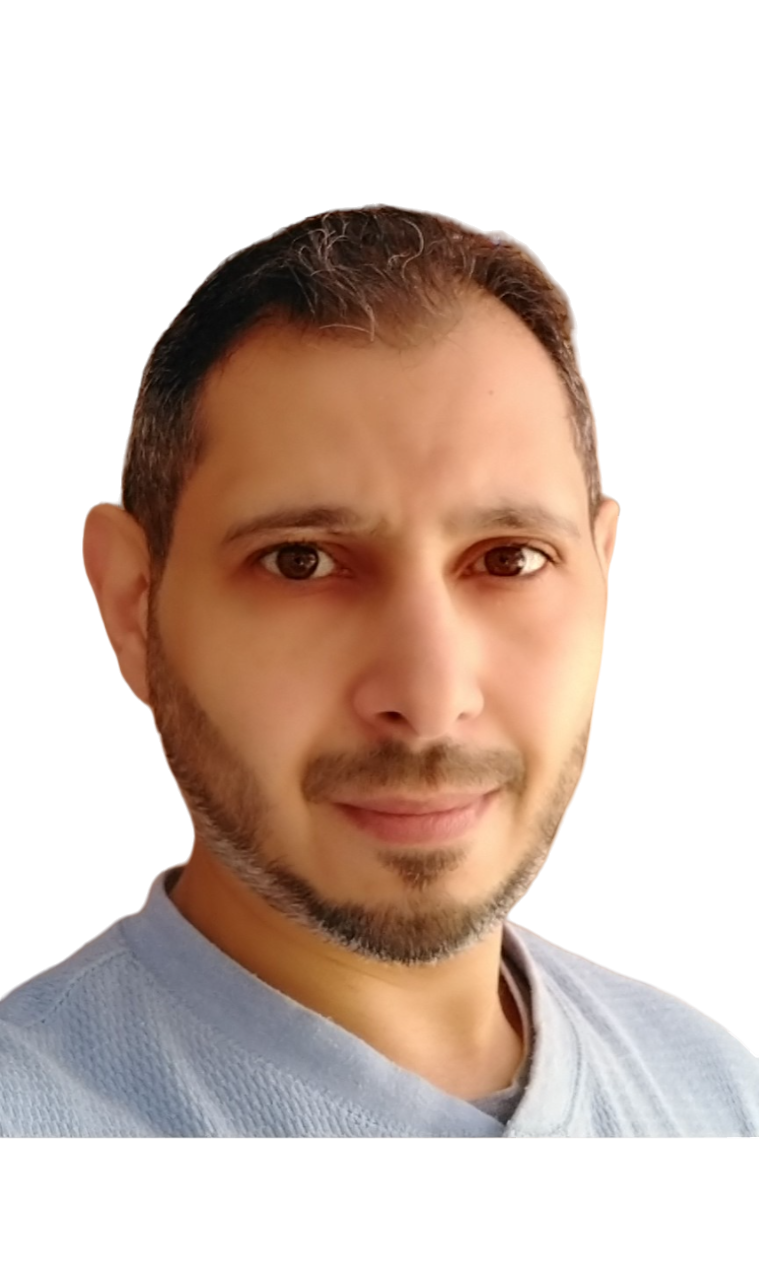
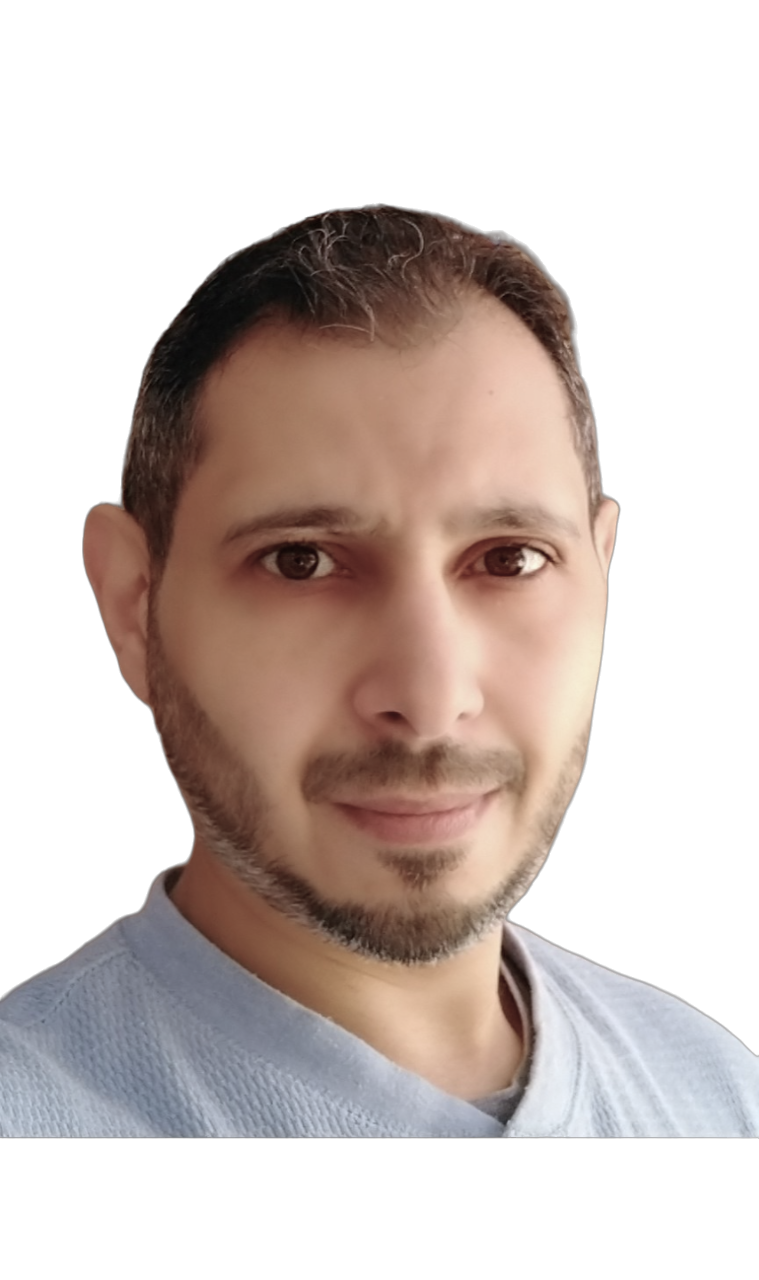
Tweak intro and pic

diff --git a/index.html b/index.html
@@ -25,11 +25,11 @@
                     Hi, I'm <span>Ahmed Lotfy Rashed.</span>
                 </h1>
                 <p>
-                    Industry-spanning experience in collecting, transforming, and visualizing data to help make informed decisions.<br><br>
+                    Collecting, transforming, and visualizing data to help make informed decisions.<br><br>
 
                     A natural teacher and public speaker, able to make complex technical issues easy to understand, whether presenting to management up the chain or explaining to operators down the chain. <br><br>
 
-                    Data toolbox:SQL, R Studio, Python, and Tableau.
+                    Data toolbox: SQL, R Studio, Python, and Tableau.
                 </p>
                 <div class="btn-con">
                     <a href="docs/Ahmed Rashed resume.pdf" class="main-btn">
@@ -371,7 +371,7 @@
                 </div>
                 <div class="blogs">
                     <div class="blog">
-                        <a href="https://github.com/ahmedlrashed/teststand-database-utility"><img src="img/blog4.png" alt="">
+                        <a href="https://github.com/ahmedlrashed/teststand-database-utility" target="_blank"><img src="img/blog4.png" alt=""></a>
                         <div class="blog-text">
                             <h4>
                                 TestStand DB Converter Tool
@@ -383,24 +383,24 @@
                         </div>
                     </div>
                     <div class="blog">
-                        <a href="https://github.com/ahmedlrashed/bike-sharing-eda"><img src="img/bike6.jpg" alt="">
-                        <div class="blog-text">
-                            <h4>
-                                Bike Sharing Analysis
-                            </h4>
-                            <p>
-                                Personal exploratory data analysis project using R-Studio to identify how casual riders and annual members use bike-sharing differently.
-                            </p>
-                        </div>
-                    </div>
-                    <div class="blog">
-                        <img src="img/port4.jpg" alt="">
+                        <a href="https://github.com/ahmedlrashed/teststand-data-dashboard" target="_blank"><img src="img/port4.jpg" alt=""></a>
                         <div class="blog-text">
                             <h4>
                                 TestStand Data Dashboard
                             </h4>
                             <p>
                                 As a follow-up to our TestStand ETL, we develop an interactive dashboard using Shiny-R to uncover process trends and statistical control metrics.
+                            </p>
+                        </div>
+                    </div>
+                    <div class="blog">
+                        <a href="https://github.com/ahmedlrashed/bike-sharing-eda" target="_blank"><img src="img/bike6.jpg" alt=""></a>
+                        <div class="blog-text">
+                            <h4>
+                                Bike Sharing Analysis
+                            </h4>
+                            <p>
+                                Personal exploratory data analysis project using R-Studio to identify how casual riders and annual members use bike-sharing differently.
                             </p>
                         </div>
                     </div>
@@ -416,7 +416,7 @@
                                 Doloribus natus voluptas, eos obcaecati recusandae amet?
                             </p>
                         </div>
-                    </div>
+                    </div>   
                     <div class="blog">
                         <img src="img/port1.jpg" alt="">
                         <div class="blog-text">
@@ -428,7 +428,7 @@
                                 Doloribus natus voluptas, eos obcaecati recusandae amet?
                             </p>
                         </div>
-                    </div>
+                    </div>  
                     <div class="blog">
                         <img src="img/port3.jpg" alt="">
                         <div class="blog-text">
@@ -440,7 +440,7 @@
                                 Doloribus natus voluptas, eos obcaecati recusandae amet?
                             </p>
                         </div>
-                    </div>                   
+                    </div>              
                     -->
                 </div>
             </div>

diff --git a/styles/styles.css b/styles/styles.css
@@ -208,7 +208,7 @@ section {
 /*About*/
 .about-container {
   display: grid;
-  grid-template-columns: repeat(1, 1fr);
+  grid-template-columns: repeat(2, 1fr);
   padding-top: 3.5rem;
   padding-bottom: 5rem;
 }
